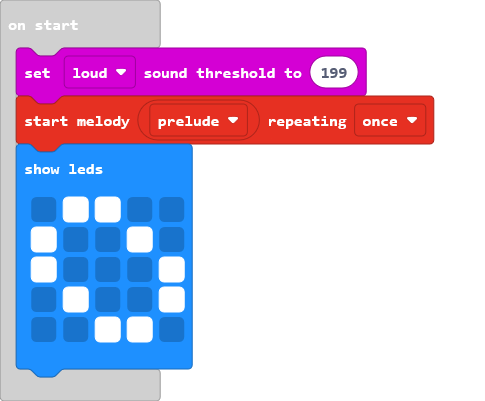
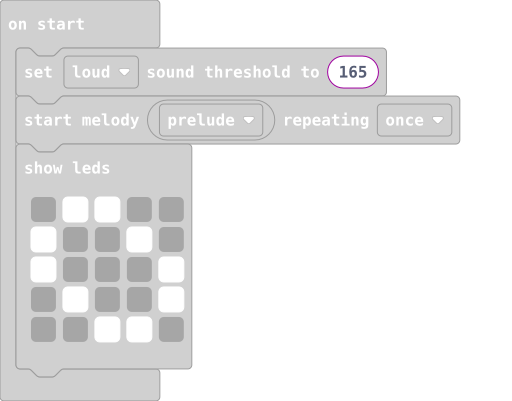
Update main.blocks, main.ts

diff --git a/main.ts b/main.ts
@@ -25,7 +25,7 @@ input.onSound(DetectedSound.Loud, function () {
         . . # # .
         `)
 })
-input.setSoundThreshold(SoundThreshold.Loud, 199)
+input.setSoundThreshold(SoundThreshold.Loud, 165)
 music.startMelody(music.builtInMelody(Melodies.Prelude), MelodyOptions.Once)
 basic.showLeds(`
     . # # . .
